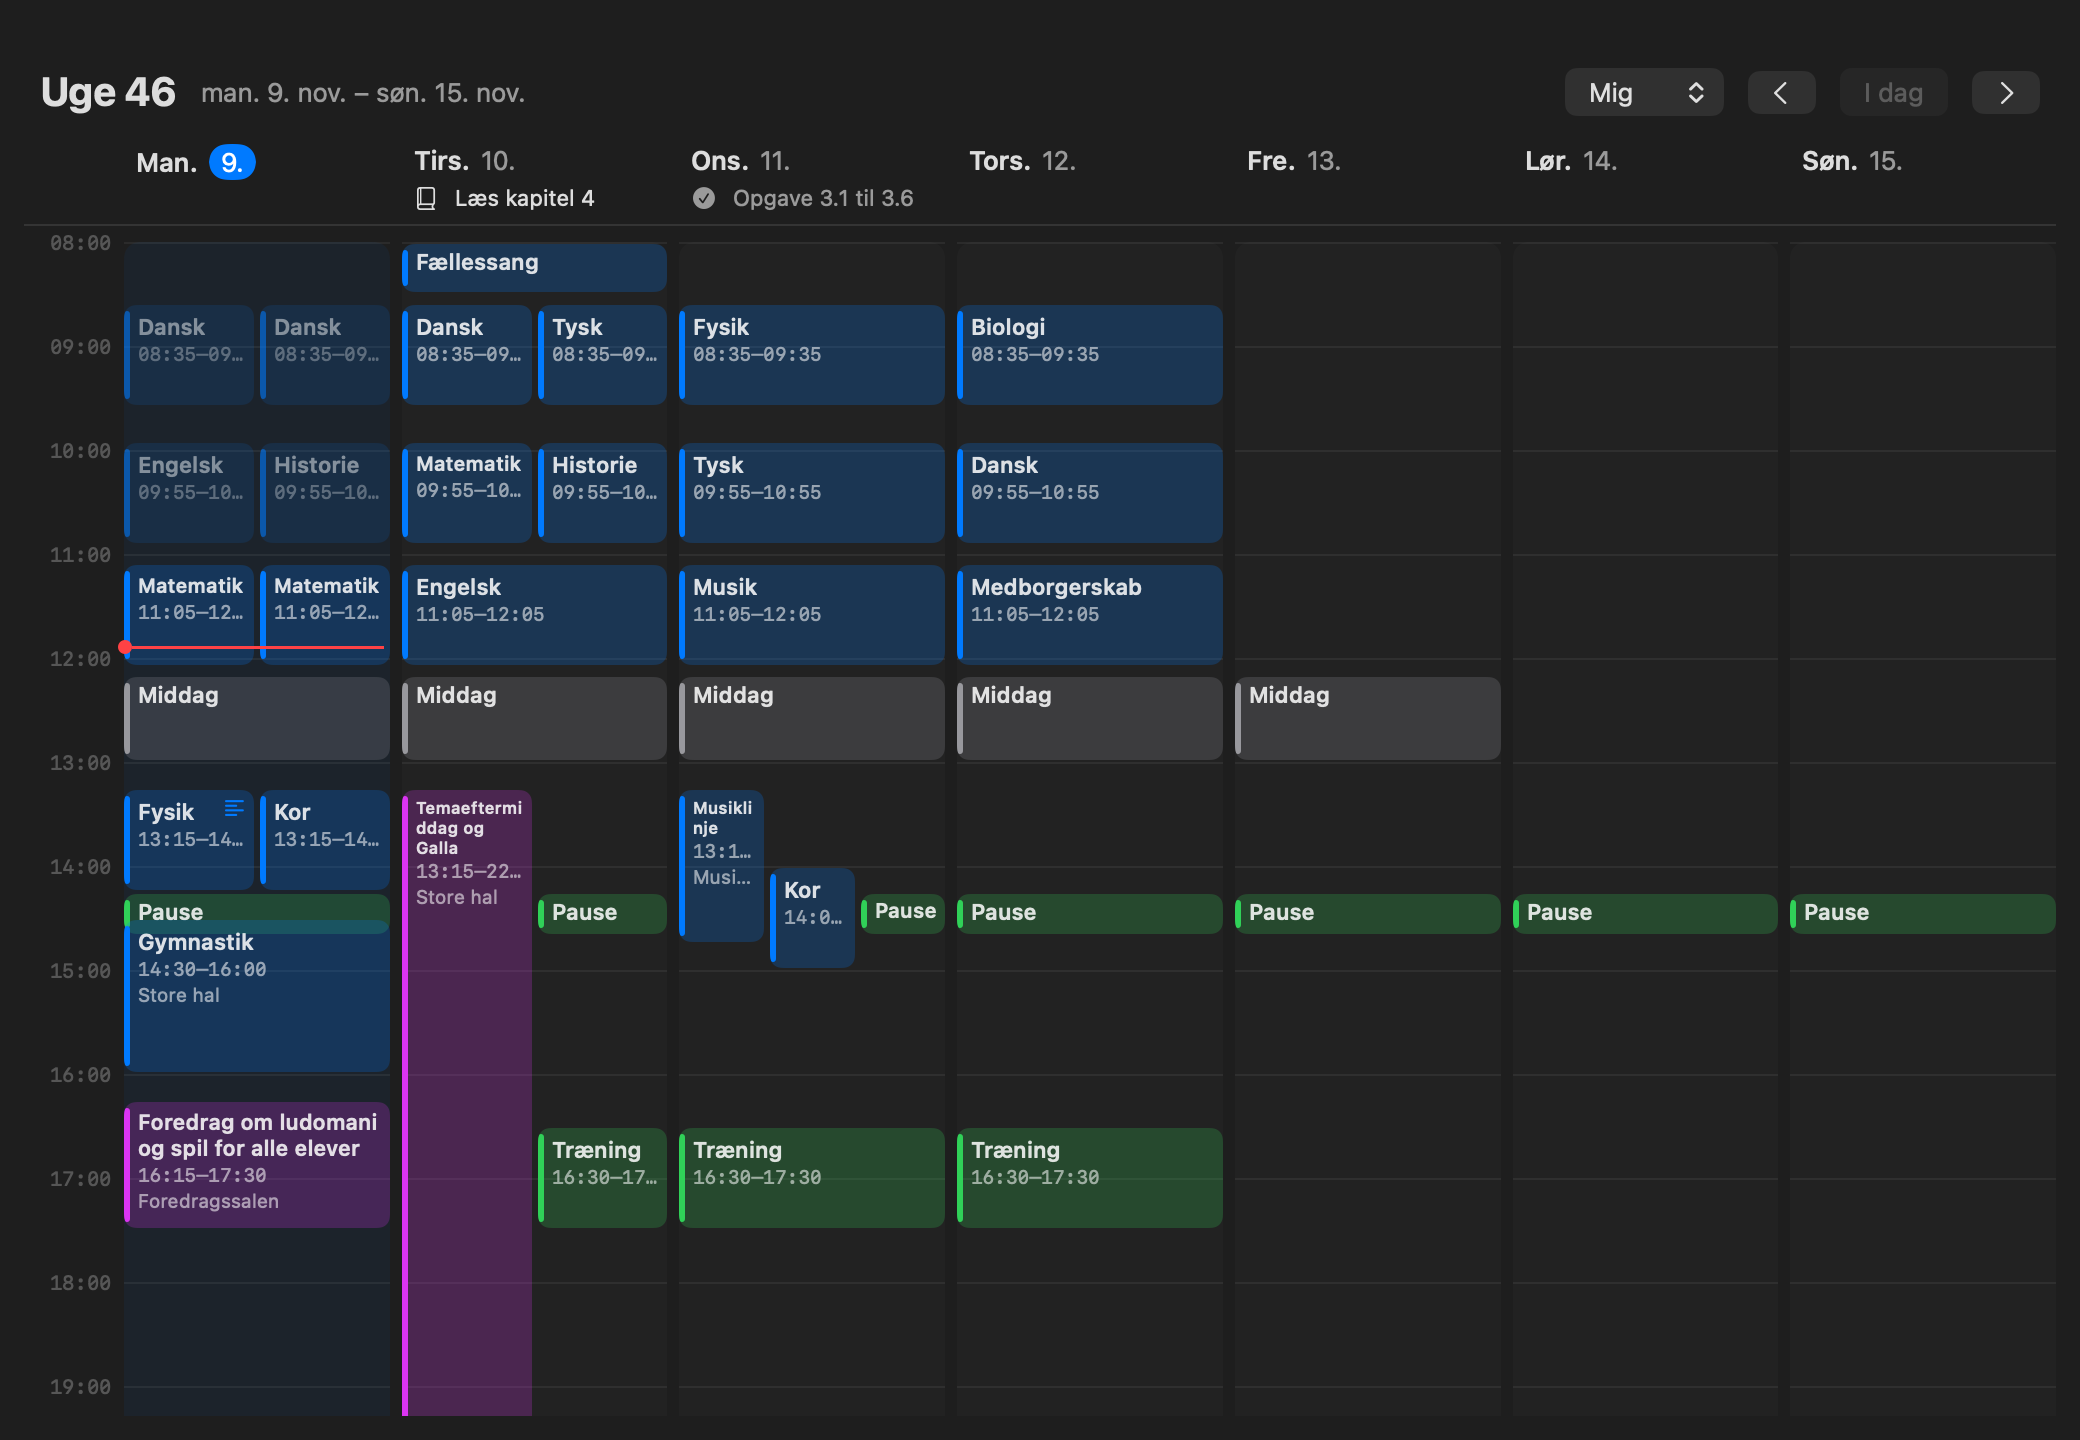
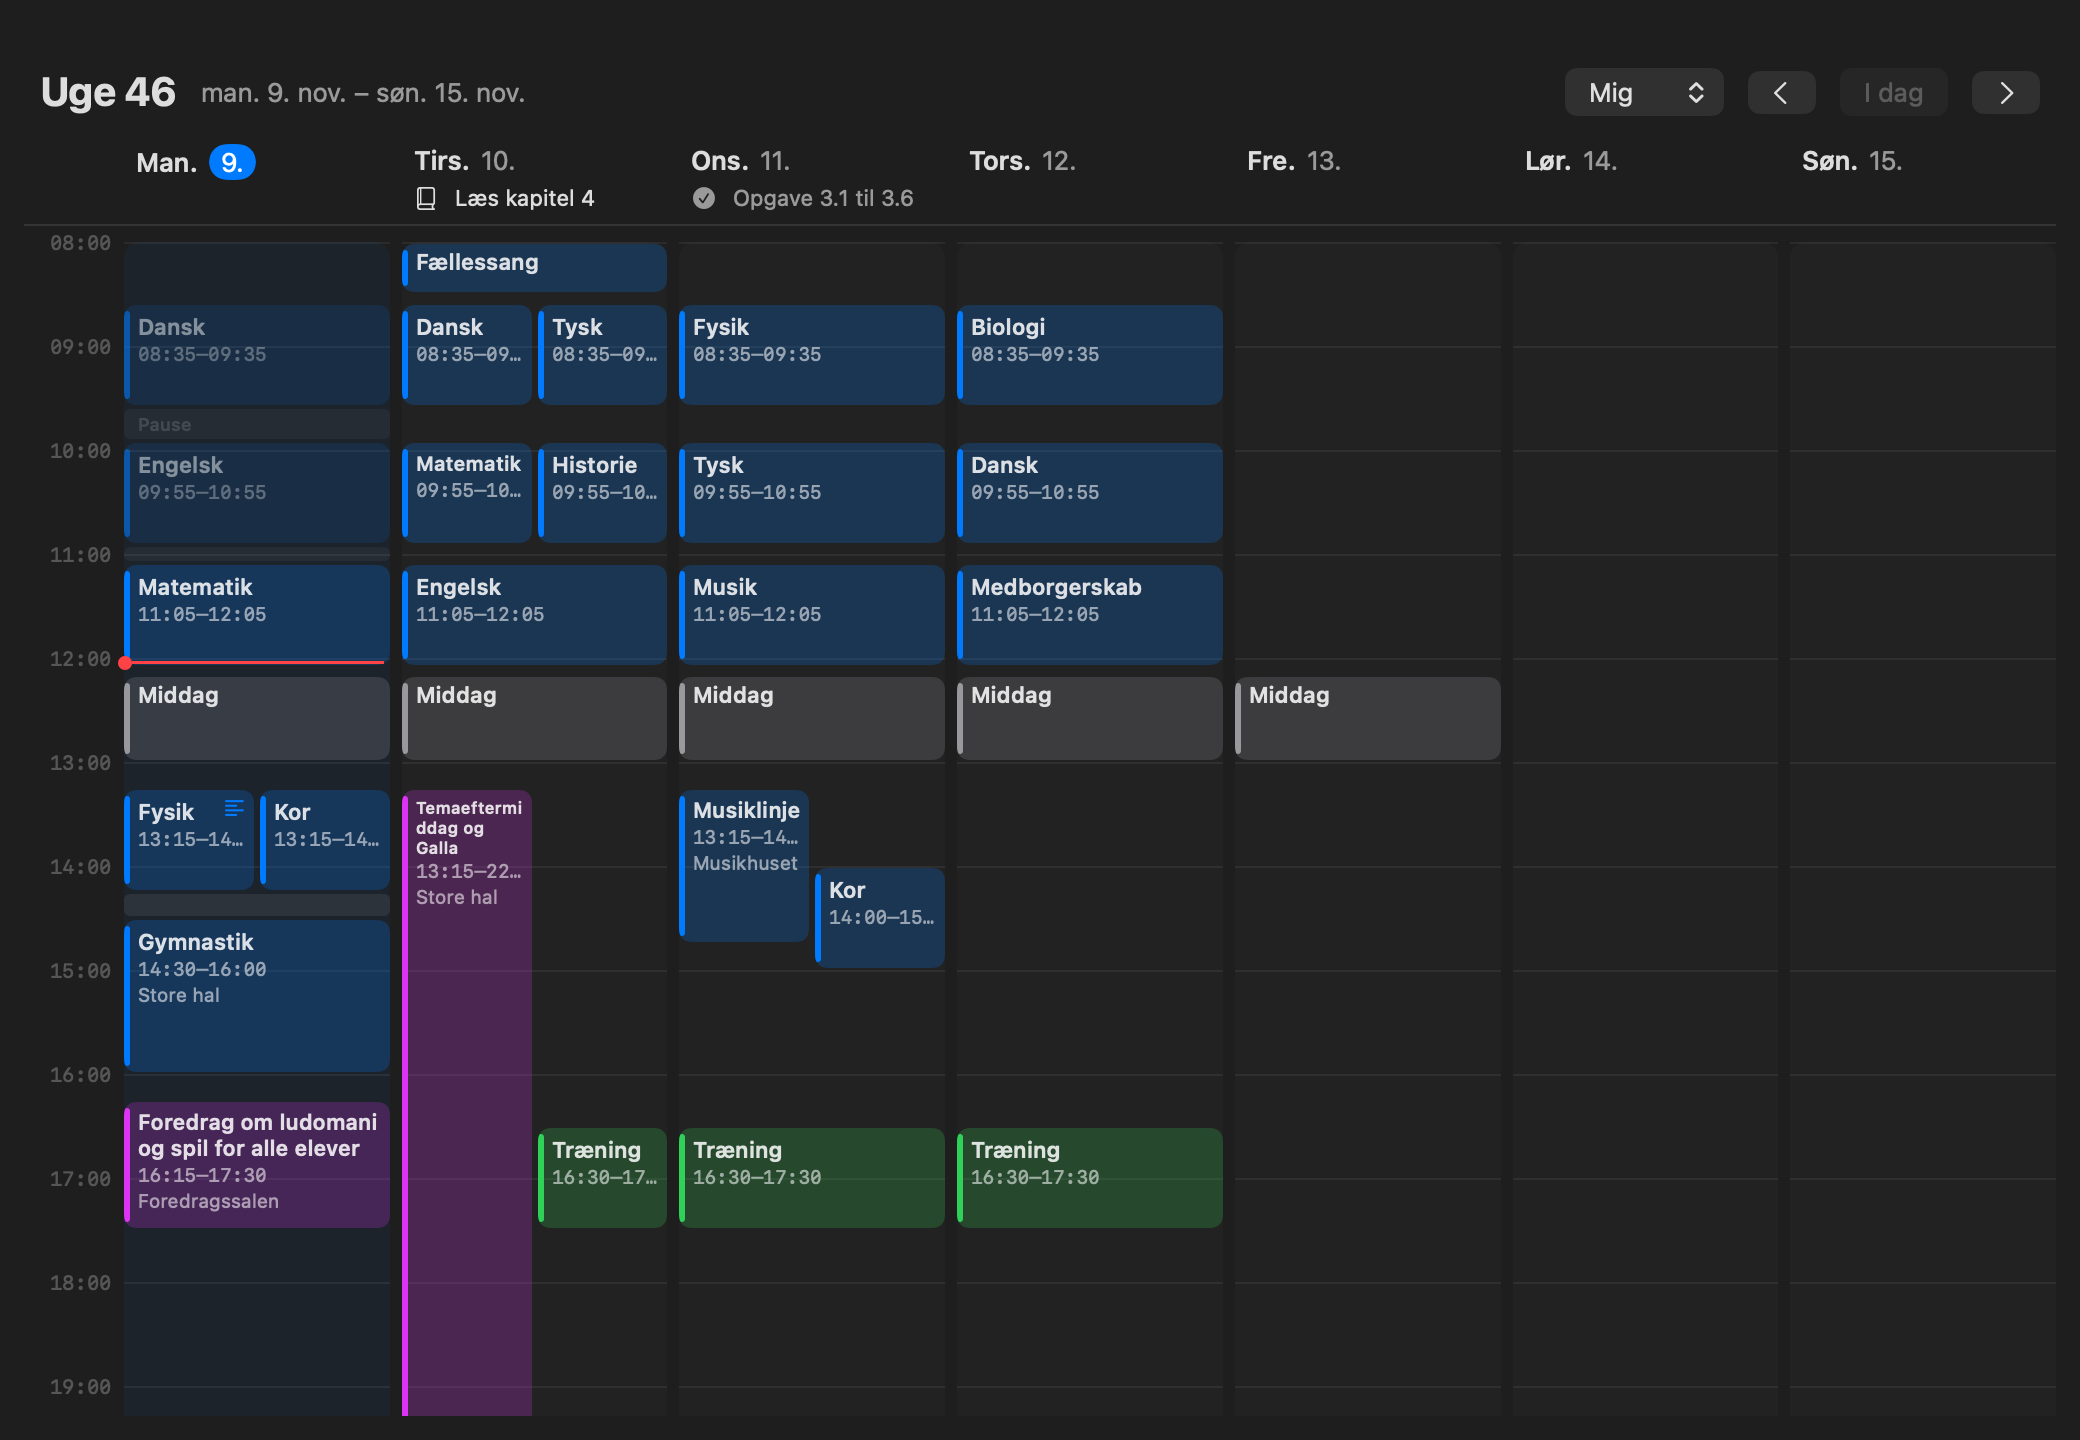
Pauser mellem klassens timer i panelet og uge-overblikket

diff --git a/Sources/Prefs.swift b/Sources/Prefs.swift
@@ -37,6 +37,7 @@ final class Prefs: ObservableObject {
     @Published var hotkeyChoice: Int { didSet { d.set(hotkeyChoice, forKey: "hotkeyChoice") } }
     @Published var lessonNames: [String: String] { didSet { d.set(lessonNames, forKey: "lessonNames") } }
     @Published var lessonColors: [String: String] { didSet { d.set(lessonColors, forKey: "lessonColors") } }
+    @Published var panelBreaks: Bool { didSet { d.set(panelBreaks, forKey: "panelBreaks") } }
     @Published var panelLunch: Bool { didSet { d.set(panelLunch, forKey: "panelLunch") } }
     @Published var customItems: [CustomItem] { didSet { d.set(try? JSONEncoder().encode(customItems), forKey: "customItems") } }
     @Published var dismissedVersion: String { didSet { d.set(dismissedVersion, forKey: "dismissedVersion") } }
@@ -60,7 +61,7 @@ final class Prefs: ObservableObject {
 
     private init() {
         d.register(defaults: [
-            "panelBirthdays": true, "panelLunch": true, "notifyBirthdays": true, "hotkeyEnabled": true, "panelFriendsNow": true, "notifyBulletin": true, "panelBulletin": false, "autoUpdate": true, "hotkeyChoice": 0, "dismissedVersion": "", "menubarBadge": true, "panelHomeworkTick": true, "friendsFreeTogether": true, "focusEnabled": false, "focusOnShortcut": "Viggo Fokus til", "focusOffShortcut": "Viggo Fokus fra", "panelNow": true, "panelTimeline": true, "panelTomorrow": true, "panelDuty": false, "panelHomework": true, "panelMessages": false, "panelHidePast": true, "panelLarge": false, "panelMsgCount": 3, "imported": false, "importSchedule": true, "importHomework": true,
+            "panelBirthdays": true, "panelLunch": true, "panelBreaks": true, "notifyBirthdays": true, "hotkeyEnabled": true, "panelFriendsNow": true, "notifyBulletin": true, "panelBulletin": false, "autoUpdate": true, "hotkeyChoice": 0, "dismissedVersion": "", "menubarBadge": true, "panelHomeworkTick": true, "friendsFreeTogether": true, "focusEnabled": false, "focusOnShortcut": "Viggo Fokus til", "focusOffShortcut": "Viggo Fokus fra", "panelNow": true, "panelTimeline": true, "panelTomorrow": true, "panelDuty": false, "panelHomework": true, "panelMessages": false, "panelHidePast": true, "panelLarge": false, "panelMsgCount": 3, "imported": false, "importSchedule": true, "importHomework": true,
             "importEvents": true, "menubarRoutine": true, "showBirthdays": false, "includedRoutines": [String](),
             "lessonAlarmMinutes": 10, "homeworkAlarm": true, "notifyChanges": true,
             "notifyHomework": true, "notifyMessages": true, "briefs": true,
@@ -93,6 +94,7 @@ final class Prefs: ObservableObject {
         lessonNames = d.dictionary(forKey: "lessonNames") as? [String: String] ?? [:]
         lessonColors = d.dictionary(forKey: "lessonColors") as? [String: String] ?? [:]
         panelLunch = d.bool(forKey: "panelLunch")
+        panelBreaks = d.bool(forKey: "panelBreaks")
         customItems = d.data(forKey: "customItems").flatMap { try? JSONDecoder().decode([CustomItem].self, from: $0) } ?? []
         dismissedVersion = d.string(forKey: "dismissedVersion") ?? ""
         imported = d.bool(forKey: "imported")

diff --git a/Sources/Features.swift b/Sources/Features.swift
@@ -172,7 +172,8 @@ struct WeekView: View {
         let school = events.filter { ($0.kind == .lesson || $0.kind == .event) && (person != nil || state.visible($0))
             && DateUtil.cal.isDate($0.start, inSameDayAs: d) }
         // Lunch from Viggo, like on Viggo's own schedule, and your own items (only in your own week).
-        let extra = state.lunch(d, from: person == nil ? nil : events) + (person == nil ? state.customEvents(on: d) : [])
+        let extra = state.lunch(d, from: person == nil ? nil : events) + state.breaks(d, from: person == nil ? nil : events)
+            + (person == nil ? state.customEvents(on: d) : [])
         return (school + extra).sorted { $0.start < $1.start }
     }
 
@@ -327,7 +328,7 @@ struct DayGridColumn: View {
                 ForEach(laid, id: \.e.id) { item in
                     let s = max(item.e.start, top), en = min(item.e.end, bottom)
                     let w = (geo.size.width - CGFloat(item.lanes - 1) * 3) / CGFloat(item.lanes)
-                    GridBlock(e: item.e, height: max(20, y(en) - y(s) - 2))
+                    GridBlock(e: item.e, height: item.e.kind == .pause ? max(6, y(en) - y(s) - 2) : max(20, y(en) - y(s) - 2))
                         .frame(width: w)
                         .offset(x: CGFloat(item.lane) * (w + 3), y: y(s) + 1)
                 }
@@ -353,9 +354,27 @@ struct GridBlock: View {
     let height: CGFloat
 
     var body: some View {
-        let tint = e.customColor ?? (e.kind == .lesson ? Color.accentColor : e.kind == .custom ? .green : e.kind == .routine ? .gray : .purple)
+        if e.kind == .pause { pauseBody } else { block }
+    }
+
+    /// A pause is only a thin gray strip, so it never covers the lessons around it.
+    private var pauseBody: some View {
+        RoundedRectangle(cornerRadius: 3, style: .continuous)
+            .fill(Color.gray.opacity(0.14))
+            .overlay(alignment: .leading) {
+                if height >= 14 {
+                    Text("Pause").font(.system(size: 9, weight: .medium)).foregroundStyle(.tertiary).padding(.leading, 7)
+                }
+            }
+            .frame(height: height)
+            .opacity(e.end < Date() ? 0.55 : 1)
+            .help("Pause \(DateUtil.hm(e.start))–\(DateUtil.hm(e.end))")
+    }
+
+    private var block: some View {
+        let tint = e.customColor ?? (e.kind == .lesson ? Color.accentColor : e.kind == .custom ? .green : e.kind == .routine || e.kind == .pause ? .gray : .purple)
         let roomy = height >= 44
-        VStack(alignment: .leading, spacing: 1) {
+        return VStack(alignment: .leading, spacing: 1) {
             Text(e.shortTitle).font(.system(size: 11, weight: .semibold))
                 .lineLimit(height >= 70 ? 3 : (roomy ? 2 : 1))
                 .minimumScaleFactor(0.75)

diff --git a/Sources/DocRenderer.swift b/Sources/DocRenderer.swift
@@ -69,17 +69,16 @@ enum DocRenderer {
         s.profile = Profile(id: 1, name: "Alex Jensen", image: nil)
         Prefs.shared.customItems = [
             CustomItem(title: "Træning", start: 16 * 60 + 30, end: 17 * 60 + 30, days: [2, 3, 4]),
-            CustomItem(title: "Pause", start: 14 * 60 + 15, end: 14 * 60 + 30, days: [1, 2, 3, 4, 5, 6, 7]),
         ]
         s.events = [
-            ev(1, "Dansk", 8, 35, 9, 35, room: "Klasse 2"),
-            ev(2, "Engelsk", 9, 55, 10, 55, room: "Klasse 2"),
-            ev(3, "Matematik", 11, 5, 12, 5, room: "Klasse 3"),
-            ViggoEvent(id: 4, rawName: "Fysik", start: at(13, 15), end: at(14, 15), room: "Lab",
+            ev(1, "104 Dansk", 8, 35, 9, 35, room: "Klasse 2"),
+            ev(2, "104 Engelsk", 9, 55, 10, 55, room: "Klasse 2"),
+            ev(3, "104 Matematik", 11, 5, 12, 5, room: "Klasse 3"),
+            ViggoEvent(id: 4, rawName: "104 Fysik", start: at(13, 15), end: at(14, 15), room: "Lab",
                        notes: "Vi laver forsøg med strøm og spænding. Husk lommeregner og hæftet fra sidst.\n\nSe videoen inden timen:\n• Ohms lov på 5 minutter\n• Opgave 4.1 til 4.3",
                        kind: .lesson, teachers: ["Maja Holm"], groups: ["Fysik (Fys104)"],
                        links: [URL(string: "https://www.youtube.com/watch?v=demo")!, URL(string: "https://drive.google.com/file/d/demo/view")!]),
-            ev(5, "Gymnastik", 14, 30, 16, 0, room: "Store hal"),
+            ev(5, "104 Gymnastik", 14, 30, 16, 0, room: "Store hal"),
             ev(10, "Aftensmad", 18, 0, 18, 30, room: "Spisesalen", kind: .routine),
             ev(80, "Middag", 12, 10, 13, 0, room: "Spisesalen", kind: .routine, day: mon(0)),
             ev(81, "Middag", 12, 10, 13, 0, room: "Spisesalen", kind: .routine, day: mon(1)),
@@ -102,8 +101,7 @@ enum DocRenderer {
             ev(73, "Kor", 14, 0, 15, 0, room: "Musikhuset", day: mon(2)),
             ev(61, "Biologi", 8, 35, 9, 35, room: "Lab", day: mon(3)), ev(62, "Dansk", 9, 55, 10, 55, room: "Klasse 2", day: mon(3)),
             ev(63, "Medborgerskab", 11, 5, 12, 5, room: "Klasse 2", day: mon(3)),
-            ev(57, "Dansk", 8, 35, 9, 35, room: "Klasse 2", day: mon(0)), ev(58, "Historie", 9, 55, 10, 55, room: "Klasse 4", day: mon(0)),
-            ev(59, "Matematik", 11, 5, 12, 5, room: "Klasse 3", day: mon(0)), ev(60, "Kor", 13, 15, 14, 15, room: "Musikhuset", day: mon(0)),
+            ev(60, "Kor", 13, 15, 14, 15, room: "Musikhuset", day: mon(0)),
             ev(20, "Fællessang", 8, 0, 8, 30, room: "Foredragssalen", kind: .lesson, day: 1),
             ev(21, "Tysk", 8, 35, 9, 35, room: "Klasse 2", day: 1),
             ev(22, "Historie", 9, 55, 10, 55, room: "Klasse 4", day: 1),

diff --git a/Sources/Views.swift b/Sources/Views.swift
@@ -99,9 +99,28 @@ struct TimelineRow: View {
     var dividerAbove = false
     var tappable = true
     var body: some View {
+        if e.kind == .pause { pauseRow } else { row }
+    }
+
+    /// A break between lessons: quiet, just the time and how long.
+    private var pauseRow: some View {
+        let current = e.start <= now && e.end > now
+        let mins = Int(e.end.timeIntervalSince(e.start) / 60)
+        return HStack(spacing: 10) {
+            Text(DateUtil.hm(e.start)).font(Sz.mono(11))
+                .foregroundStyle(current ? Color.accentColor : Color.secondary.opacity(0.6))
+                .frame(width: 42 * Sz.k, alignment: .leading)
+            Image(systemName: "cup.and.saucer").font(Sz.f(10)).foregroundStyle(.tertiary)
+            Text("Pause · \(mins) min").font(Sz.f(11, current ? .semibold : .regular)).foregroundStyle(current ? .secondary : .tertiary)
+            Spacer()
+        }
+        .opacity(e.end <= now ? 0.35 : 1)
+    }
+
+    private var row: some View {
         let current = e.start <= now && e.end > now
         let past = e.end <= now
-        VStack(alignment: .leading, spacing: 4) {
+        return VStack(alignment: .leading, spacing: 4) {
             if dividerAbove {
                 HStack(spacing: 6) {
                     Rectangle().fill(.quaternary).frame(height: 1)
@@ -363,7 +382,7 @@ struct DayPanel: View {
         let isMe = name == nil
         let all = state.timeline(now, from: isMe ? nil : events)
         let current = all.first { $0.start <= now && $0.end > now }
-        let next = all.first { $0.start > now }
+        let next = all.first { $0.start > now && $0.kind != .pause }
         let shown = p.panelHidePast ? all.filter { $0.end > now } : all
         let schoolEnd = all.filter { $0.kind == .lesson || $0.kind == .event }.map(\.end).max() ?? .distantPast
         let firstEvening = shown.first { ($0.kind == .routine || $0.kind == .custom) && $0.start >= schoolEnd }?.id
@@ -761,6 +780,7 @@ struct PanelTab: View {
                 Toggle("Nu-kort (hvad sker der lige nu)", isOn: $p.panelNow)
                 Toggle("Resten af dagen", isOn: $p.panelTimeline)
                 Toggle("Middag mellem timerne", isOn: $p.panelLunch)
+                Toggle("Pauser mellem klassens timer", isOn: $p.panelBreaks)
                 Toggle("I morgen", isOn: $p.panelTomorrow)
                 Toggle("Lektier", isOn: $p.panelHomework)
                 if p.panelHomework {

diff --git a/Sources/AppState.swift b/Sources/AppState.swift
@@ -551,6 +551,24 @@ final class AppState: ObservableObject {
         }
     }
 
+    /// Breaks between class lessons ("104 Tysk", "104 Dansk"), not between electives or line subjects.
+    /// A gap of up to 30 minutes with nothing else in it counts as a break.
+    func breaks(_ day: Date, from list: [ViggoEvent]? = nil) -> [ViggoEvent] {
+        guard prefs.panelBreaks else { return [] }
+        let todays = (list ?? events).filter { DateUtil.cal.isDate($0.start, inSameDayAs: day) && $0.kind != .duty && $0.kind != .birthday }
+        let classes = todays.filter { $0.kind == .lesson && $0.rawName.firstMatch("^\\d+\\s") != nil }
+            .sorted { $0.start < $1.start }
+        var out: [ViggoEvent] = []
+        for (a, b) in zip(classes, classes.dropFirst()) {
+            let gap = b.start.timeIntervalSince(a.end)
+            guard gap > 0, gap <= 30 * 60,
+                  !todays.contains(where: { $0.start < b.start && $0.end > a.end && $0.id != a.id && $0.id != b.id }) else { continue }
+            out.append(ViggoEvent(id: -(Int(a.end.timeIntervalSince1970) / 60), rawName: "Pause", start: a.end, end: b.start,
+                                  room: "", notes: "", kind: .pause, teachers: [], groups: []))
+        }
+        return out
+    }
+
     /// Your own items (Indstillinger › Egne punkter) on the given day.
     func customEvents(on day: Date) -> [ViggoEvent] {
         prefs.customItems.enumerated().compactMap { $0.element.event(on: day, index: $0.offset) }
@@ -566,7 +584,7 @@ final class AppState: ObservableObject {
             && $0.start >= lastEnd && inMenubar($0.title) }
         let meal = lunch(now, from: list).filter { e in !evening.contains { $0.id == e.id } }
         let own = list == nil ? customEvents(on: now) : []
-        return (school + evening + meal + own).sorted { $0.start < $1.start }
+        return (school + evening + meal + breaks(now, from: list) + own).sorted { $0.start < $1.start }
     }
 
     private func visibleOrFriend(_ e: ViggoEvent, _ friend: Bool) -> Bool { friend || visible(e) }

diff --git a/Sources/Models.swift b/Sources/Models.swift
@@ -1,6 +1,6 @@
 import Foundation
 
-enum EventKind: String, Codable { case lesson, event, routine, birthday, duty, custom }
+enum EventKind: String, Codable { case lesson, event, routine, birthday, duty, custom, pause }
 
 /// Your own everyday item, like "Frokost 12:00 to 12:30 on weekdays". Shown in the panel and the menubar.
 struct CustomItem: Codable, Identifiable, Hashable {

diff --git a/CHANGELOG.md b/CHANGELOG.md
@@ -3,7 +3,8 @@
 ## 1.5.0 (2026-11-09)
 
 - **Middag mellem timerne**: middagen fra dit Viggo-skema står nu i panelet mellem timerne og i menubaren, ligesom på Viggo. Kan slås fra under Indstillinger › Panel.
-- **Uge-overblikket** viser også middag (grå) og dine egne punkter (grønne).
+- **Pauser mellem timerne**: pauserne mellem klassens timer står i panelet og uge-overblikket (ikke ved valgfag og linjefag). Kan slås fra under Indstillinger › Panel.
+- **Uge-overblikket** viser også middag og pauser (grå) og dine egne punkter (grønne).
 - **Egne punkter**: tilføj frokost, træning, lektier og andet under Indstillinger › Egne punkter, med tidspunkt og hvilke dage. De står i panelet med en grøn streg og i menubaren, fx "Frokost 12:00".
 - **Små animationer**: lektier hopper når du krydser af, minutterne ruller på Nu-kortet, ringen glider hen til den ven du vælger, og dagen tones ind. Synk-pilen drejer mens den henter, og knapperne giver lidt efter når du trykker.
 - I indstillingerne glider markeringen i siden med, og siderne tones ind.

diff --git a/README.md b/README.md
@@ -20,6 +20,8 @@ Klik på en time i panelet eller uge-overblikket, så ser du hvad læreren har s
 
 ## Uge-overblik
 
+Hele ugen med timer, middag, pauser mellem klassens timer og dine egne punkter.
+
 <p align="center">
   <img src="docs/screens/week.png" alt="Uge-overblik" width="800">
 </p>
